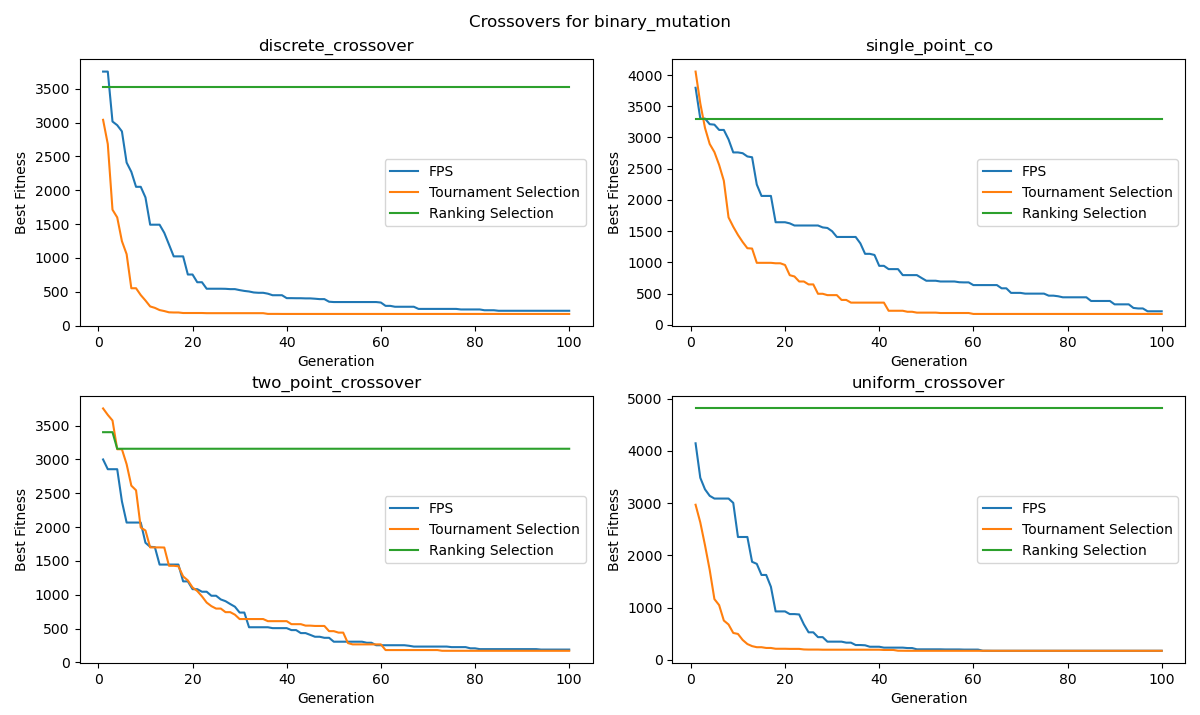
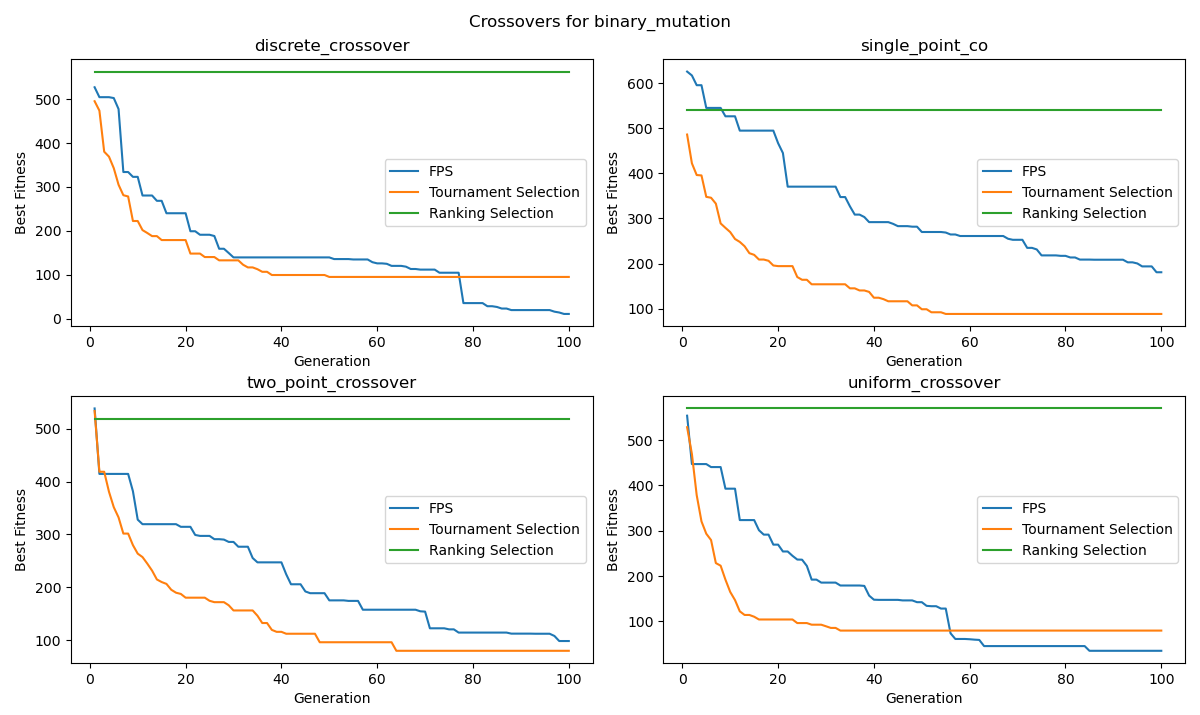
Fittness function update

diff --git a/Computational Intelligence for Optimization/Charles/charles.py b/Computational Intelligence for Optimization/Charles/charles.py
@@ -24,25 +24,30 @@ class Individual:
         #print(self.representation)
 
     def get_fitness(self):
+        total_monetary_cost = 0
         total_cost = 0
-        total_nutrient_diff = 0
+        not_empty = 0
+        nutrient_val = []
 
-        for nutrient in nutrients:
-            nutrient_name = nutrient[0]
-            nutrient_min = nutrient[1]
+        for i in range(len(self)):
+            if self[i] == 1:
+                not_empty = 1
+                total_monetary_cost += data[i][2]  # Accumulate the monetary cost
+                for j in range(3, len(data[i])):  # iterate over nutritional values
+                    nutrient_val.append(data[i][j])
 
-            nutrient_amount = 0
-            for i in range(len(self)):
-                if self[i] == 1:
-                    nutrient_amount += data[i][3]
+        if not_empty == 0:
+            for n in range(len(nutrients)):
+                total_cost += nutrients[n][1]
+        else:
+            for k in range(len(nutrients)):
+                if nutrients[k][1] - nutrient_val[k] > 0:
+                    total_cost += nutrients[k][1] - nutrient_val[k]
 
-            nutrient_diff = nutrient_amount - nutrient_min
-            if nutrient_diff > 0:
-                total_cost += nutrient_diff
-            total_nutrient_diff += abs(nutrient_diff)
-
-        fitness = total_cost + total_nutrient_diff
+        fitness = total_monetary_cost + total_cost
         return fitness
+
+
     # def get_fitness(self):
     #     total_cost = 0
     #     nutrient_shortfalls = [0] * len(nutrients)

diff --git a/Computational Intelligence for Optimization/diet.py b/Computational Intelligence for Optimization/diet.py
@@ -92,12 +92,12 @@ def crossers_for_mutation(mutation):
 
 #REMOVE THE COMMENTS TO RUN AND COMPARE THE DIFFERENT CROSSOVERS WITH MUTATIONS
 
-#swap_mutation_result = crossers_for_mutation(swap_mutation)
-#binary_mutation_result = crossers_for_mutation(binary_mutation)
-#inversion_mutation_result = crossers_for_mutation(inversion_mutation)
-#print("The best Score with the swap mutation is " + str(swap_mutation_result))
-#print("The best Score with the binary mutation is " + str(round(binary_mutation_result, 2)))
-#print("The best Score with the inversion mutation is " + str(round(inversion_mutation_result, 2)))
+swap_mutation_result = crossers_for_mutation(swap_mutation)
+binary_mutation_result = crossers_for_mutation(binary_mutation)
+inversion_mutation_result = crossers_for_mutation(inversion_mutation)
+print("The best Score with the swap mutation is " + str(swap_mutation_result))
+print("The best Score with the binary mutation is " + str(round(binary_mutation_result, 2)))
+print("The best Score with the inversion mutation is " + str(round(inversion_mutation_result, 2)))
 
 
 # Now that we can see our best Scores, lets see the true best score.
